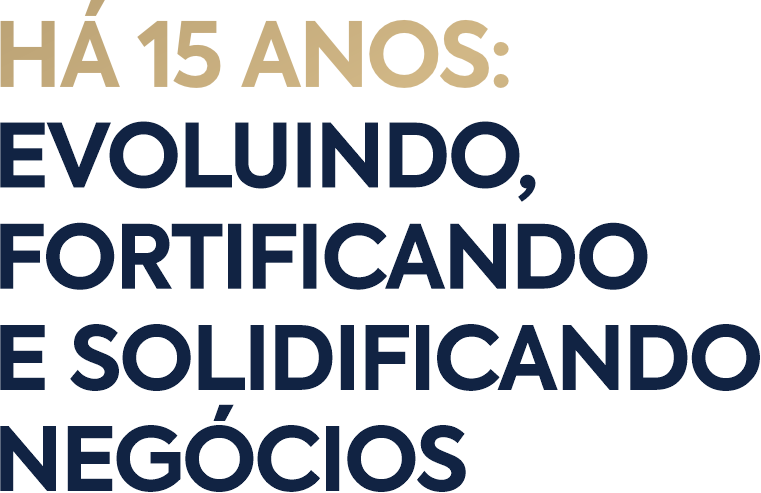
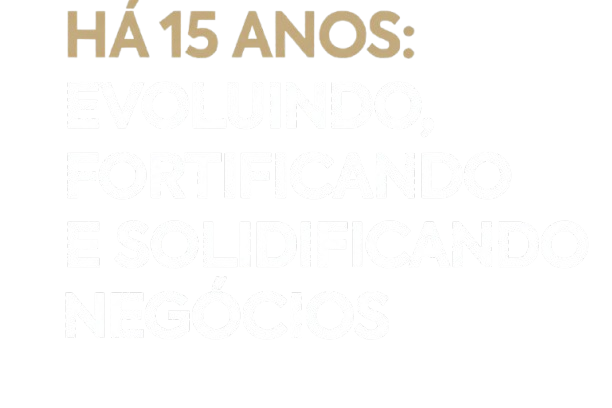
Novo layout

diff --git a/components/footer.tsx b/components/footer.tsx
@@ -17,21 +17,21 @@ export function Footer() {
 
               {/* LOGO */}
               <Image
-                src="/logo.png"
+                src="/15ANOS.png"
                 alt="Diniz Assessoria Contábil"
                 width={500}
                 height={150}
-                className="h-30 w-auto"
+                className="h-40 w-auto"
                 priority
               />
 
               {/* IMAGEM DO TEXTO */}
               <Image
-                src="/texto.png"
+                src="/TEXTO.png"
                 alt="Texto institucional Diniz Assessoria Contábil"
                 width={500}
                 height={150}
-                className="h-30 w-auto"
+                className="h-40 w-auto"
               />
             </div>
 
